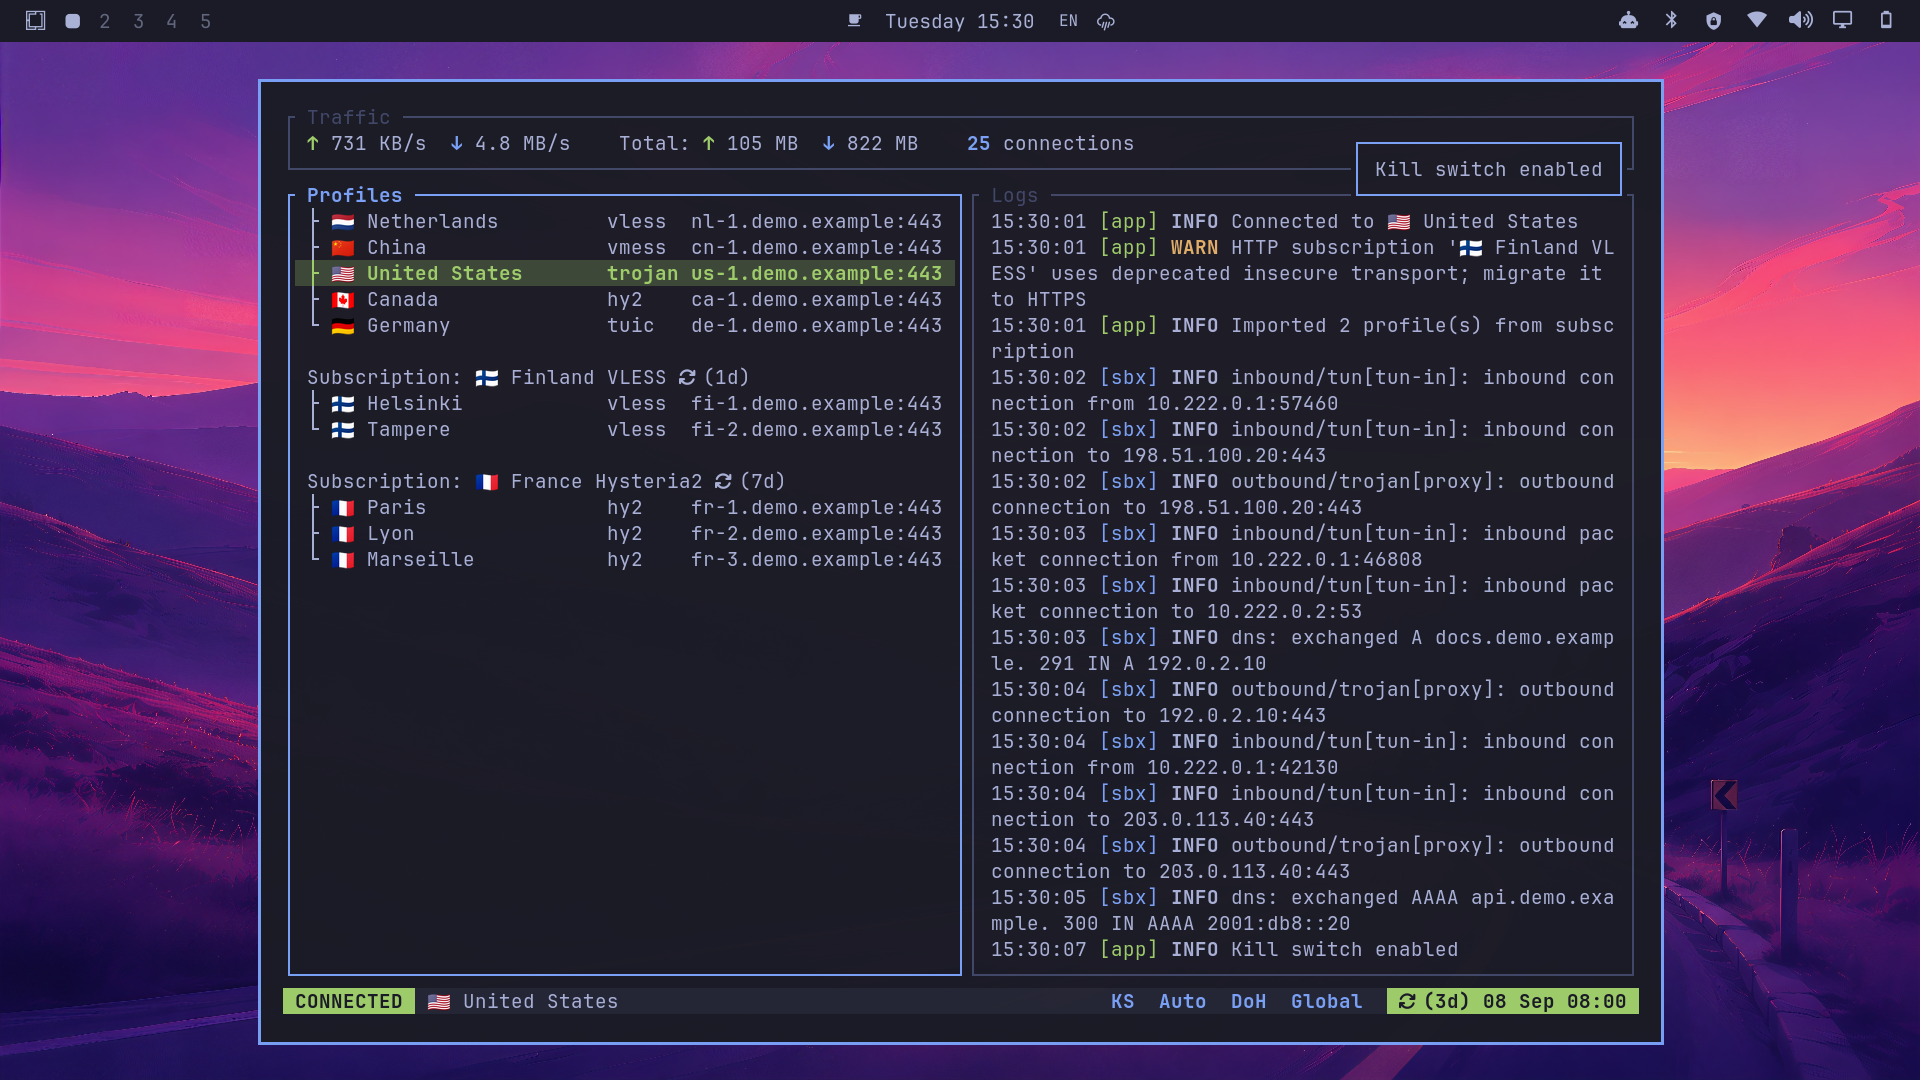
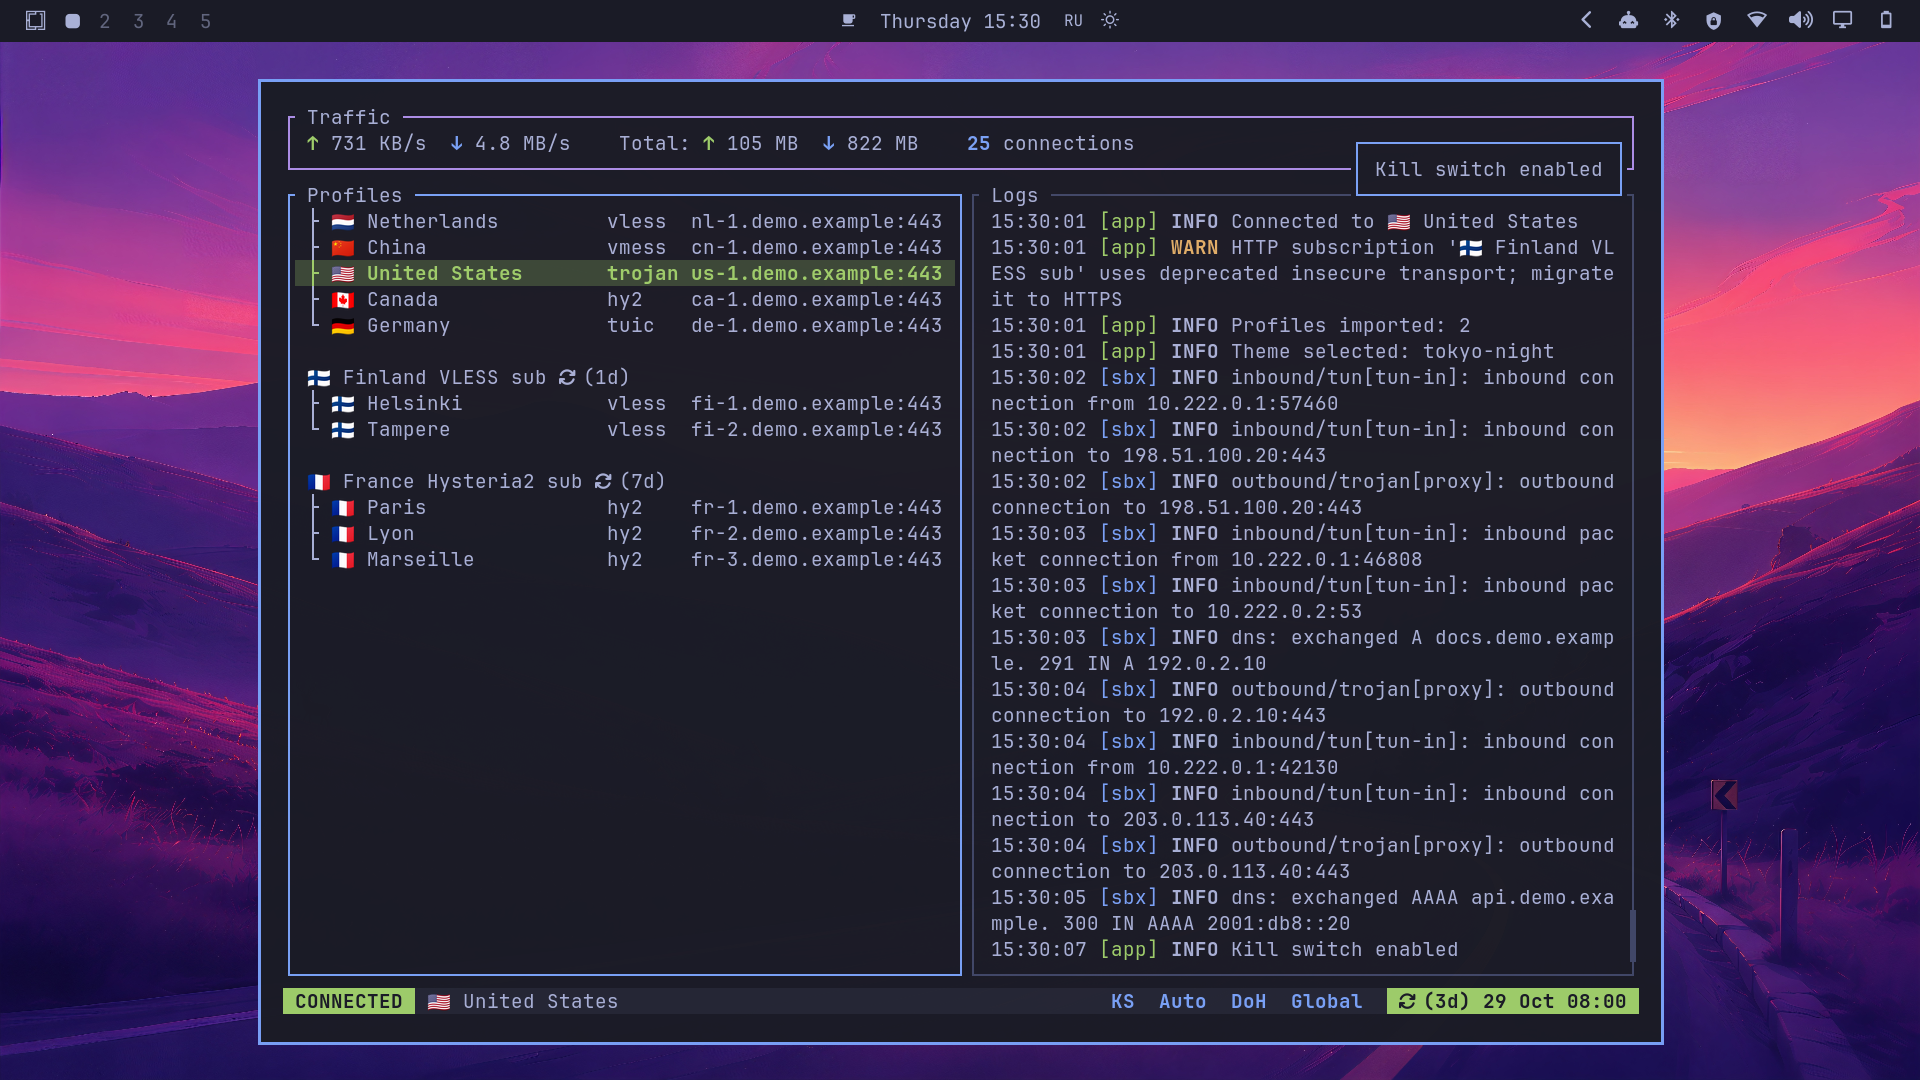
chore(docs): mark subscriptions and show a log scrollbar in screenshots
Name the demo subscriptions "… sub" so the screenshots show the groups
are subscriptions, and add earlier log lines so the Logs pane shows a
scrollbar as it does with a long session.

diff --git a/src/tui_client/docs_preview.rs b/src/tui_client/docs_preview.rs
@@ -180,7 +180,7 @@ fn build_docs_preview_state_at(
     };
     config.subscriptions.push(Subscription {
         id: finland_subscription_id,
-        name: "🇫🇮 Finland VLESS".into(),
+        name: "🇫🇮 Finland VLESS sub".into(),
         url: "http://finland-subscription.demo.example/list".into(),
         auto_update: SubscriptionAutoUpdate::Every1d,
         last_updated: None,
@@ -191,7 +191,7 @@ fn build_docs_preview_state_at(
     });
     config.subscriptions.push(Subscription {
         id: france_subscription_id,
-        name: "🇫🇷 France Hysteria2".into(),
+        name: "🇫🇷 France Hysteria2 sub".into(),
         url: "https://france-subscription.demo.example/list".into(),
         auto_update: SubscriptionAutoUpdate::Every7d,
         last_updated: None,
@@ -238,6 +238,9 @@ fn build_docs_preview_state_at(
         down_total: 822 * 1024 * 1024,
         conn_count: 25,
     };
+    for index in 0..EARLIER_LOG_LINES {
+        model.push_log(earlier_log_line(index));
+    }
     let log_time = |second: u8| format!("15:30:{second:02}");
     for line in [
         format!("[app] {} INFO Connected to 🇺🇸 United States", log_time(1)),
@@ -299,6 +302,32 @@ fn build_docs_preview_state_at(
     })
 }
 
+const EARLIER_LOG_LINES: u32 = 200;
+
+fn earlier_log_line(index: u32) -> String {
+    let seconds_before_shown = EARLIER_LOG_LINES - index;
+    let time_of_day = 15 * 3600 + 30 * 60 - seconds_before_shown;
+    let time = format!(
+        "{:02}:{:02}:{:02}",
+        time_of_day / 3600,
+        time_of_day / 60 % 60,
+        time_of_day % 60
+    );
+    let host = 10 + index % 90;
+    match index % 3 {
+        0 => format!(
+            "[sb] {time} INFO inbound/tun[tun-in]: inbound connection from 10.222.0.1:{}",
+            40_000 + index * 97
+        ),
+        1 => format!(
+            "[sb] {time} INFO inbound/tun[tun-in]: inbound connection to 198.51.100.{host}:443"
+        ),
+        _ => format!(
+            "[sb] {time} INFO outbound/trojan[proxy]: outbound connection to 198.51.100.{host}:443"
+        ),
+    }
+}
+
 fn preview_profile(
     id: u128,
     name: &str,
@@ -334,6 +363,7 @@ mod tests {
             .unwrap();
         let state = build_docs_preview_state_at("tokyo-night", preview_now).unwrap();
         let logs: Vec<_> = state.model.logs.iter().map(String::as_str).collect();
+        let shown_logs = &logs[EARLIER_LOG_LINES as usize..];
         let endpoints: Vec<_> = state
             .model
             .config
@@ -349,13 +379,13 @@ mod tests {
         );
         assert_eq!(endpoints[0].len(), 21);
         assert_eq!(
-            logs.first().copied(),
+            shown_logs.first().copied(),
             Some("[app] 15:30:01 INFO Connected to 🇺🇸 United States")
         );
-        assert!(logs[1].starts_with(
-            "[app] 15:30:01 WARN HTTP subscription '🇫🇮 Finland VLESS' uses deprecated"
+        assert!(shown_logs[1].starts_with(
+            "[app] 15:30:01 WARN HTTP subscription '🇫🇮 Finland VLESS sub' uses deprecated"
         ));
-        assert!(!logs[1].contains(&state.model.config.subscriptions[0].url));
+        assert!(!shown_logs[1].contains(&state.model.config.subscriptions[0].url));
         assert_eq!(
             logs.last().copied(),
             Some("[app] 15:30:07 INFO Kill switch enabled")
